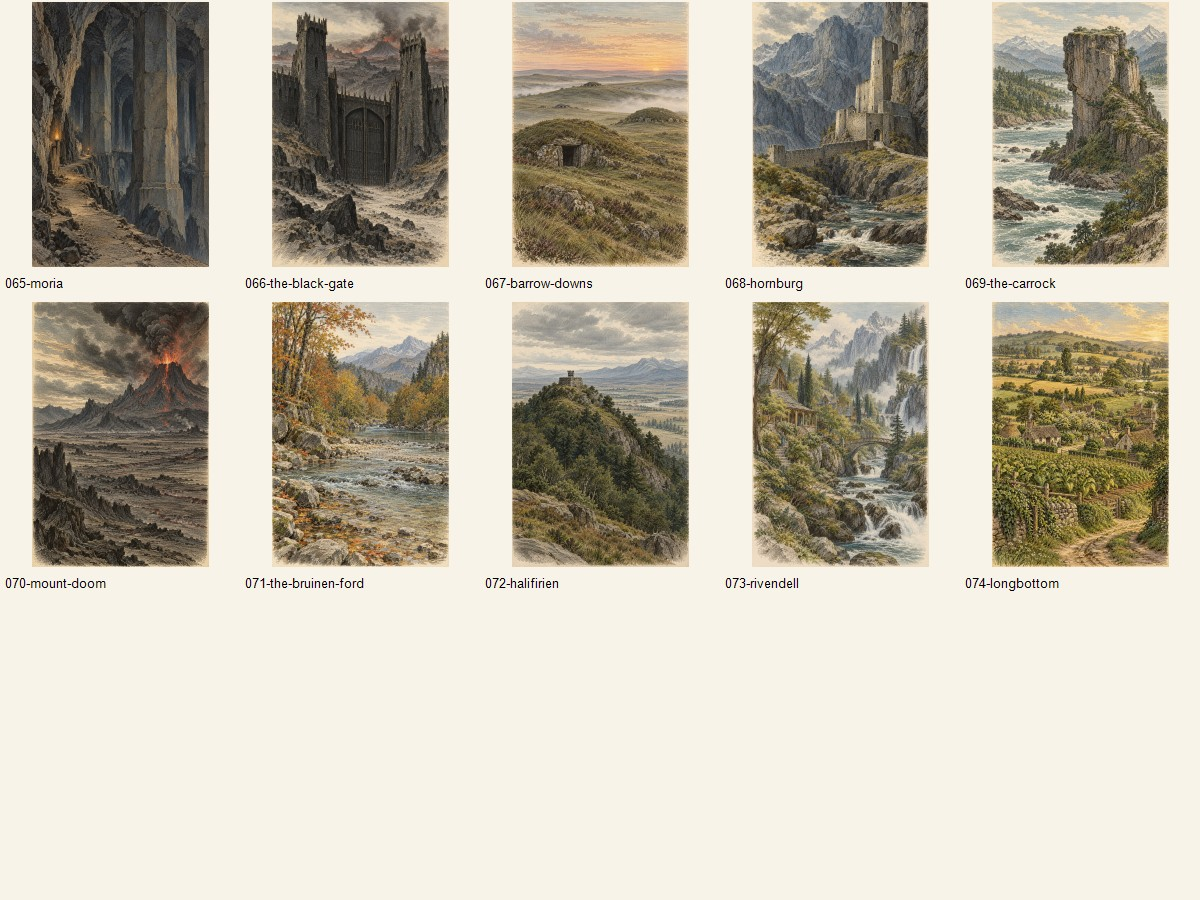
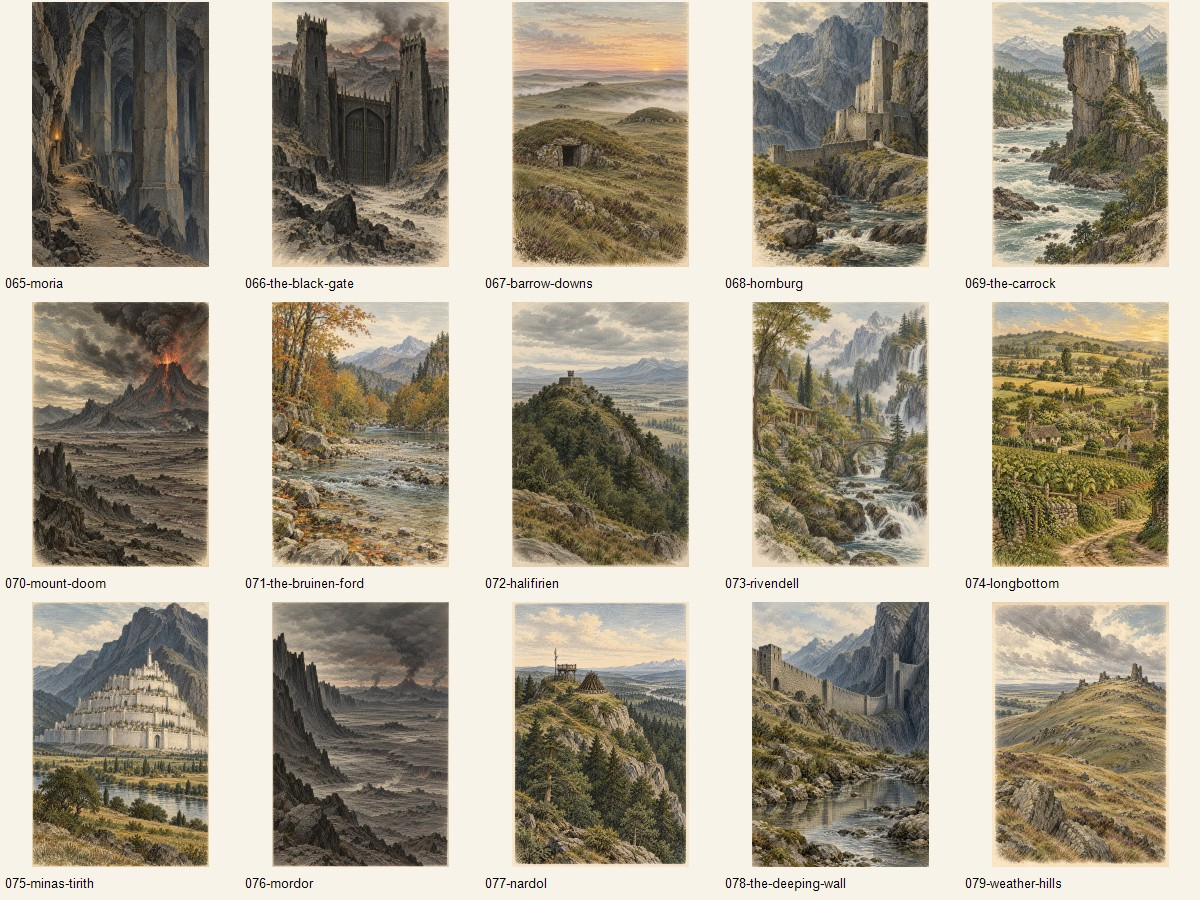
Add book-based Middle-earth location plates

Changed region(s): [[0.6167, 0.6533, 0.9867, 0.9956], [0.2158, 0.6533, 0.5858, 0.9956], [0.0, 0.6533, 0.185, 0.9956]]

diff --git a/scripts/lotr-two-books-art/PROGRESS.md b/scripts/lotr-two-books-art/PROGRESS.md
@@ -11,14 +11,14 @@ Work on both books together. Reuse art for the same subject across books, but ne
 ## Inventory and progress
 
 - `manifest.json` lists 217 distinct original illustrations for 389 cover, character, item and location slots: 173 Fellowship and 216 Two Towers. Exactly 172 illustrations are shared across books. Book-specific extras are one Fellowship cover and 44 Two Towers subjects.
-- 75 final images are accepted, registered, and converted to JPEG: assets 001-074 and 174. The PNG masters are ignored by Git. 142 assets remain pending.
+- 95 final images are accepted, registered, and converted to JPEG: assets 001-094 and 174. The PNG masters are ignored by Git. 122 assets remain pending.
 - `make-contact-sheets.ps1` produces category sheets for visual review; the first cover and character sheets were generated and inspected.
 - The accepted Fellowship cover depicts Tom Bombadil guiding the four hobbits from the Old Forest, a book scene omitted by the films. The accepted Two Towers cover depicts Faramir speaking to Frodo and Sam in Henneth Annûn. Accepted shared art includes a distinctly non-film Aragorn, Arwen, a shadow-and-flame Balrog without film horns or wings, and Barliman Butterbur.
 - An earlier Fellowship cover with a nine-person lineup, an earlier Aragorn that resembled the film actor, a multi-pose Boromir, a blond film-like Legolas, an eye-shaped Sauron, and initial Erestor, Glóin, and Saruman variants with film-like Council or character imagery were rejected and are not part of the registered assets.
 - The `.pwk` files contain 69 and 104 linked image blobs. The companion `.pwb` bundles contain 80 and 66 embedded blobs, including 14 map blobs in each. Many apparent missing references resolve through `.pwb`. The artwork task will replace all linked and embedded non-map art; preserve the functional map bundles. Two map layers in each book reuse a map image for navigation overlays; the no-repeat rule is enforced on cover, character, item and location illustrations.
 - A trial set of schematic SVG maps was discarded after discovering the embedded maps. No map replacements are pending.
 - `import-art.mjs` is prepared but intentionally refuses to run until all 217 approved JPEGs exist. It will import unique image refs per book, keep the map-only PWB, archive old blob metadata, update the catalogue, and correct Fellowship's `Endoras` typo to `Edoras`.
-- `validate.mjs` checks the checkpoint now and will check final art URL/hash uniqueness, map resolution, source removal, and catalogue sizes after import. Current checkpoint validation passes at 75/217.
+- `validate.mjs` checks the checkpoint now and will check final art URL/hash uniqueness, map resolution, source removal, and catalogue sizes after import. Current checkpoint validation passes at 95/217.
 
 ## Next actions
 
